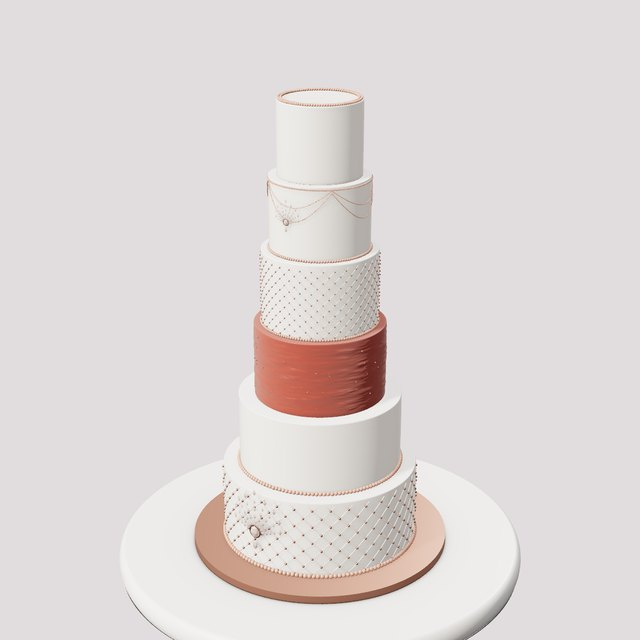
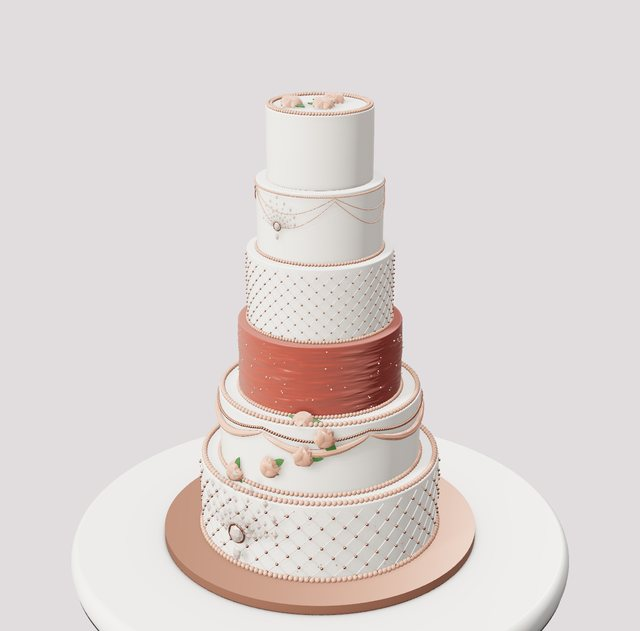
Signature cakes round 4: cow ears, richer rose gold
Claude-Session: https://claude.ai/code/session_016sN14hzH19WJ5zrp8o2QGp

diff --git a/studio.html b/studio.html
@@ -1394,7 +1394,7 @@ function dollarFaceParts(q,c,mode,dc){const g=dollarGeo();g.scale(1.6,1.6,.35);g
 function sugarBowParts(q,c){const g=bowGeo(q,.9);g.rotateX(-PI/2);return[[bowMat(c),g]]}
 function cowTopParts(q,c,mode,dc){const horns=[],ears=[],inner=[];const sp=(dc&&dc.spread)||1.15;
  for(const sd of[-1,1]){const pts=[];for(let i=0;i<=12;i++){const t=i/12;pts.push(new V3(sd*(sp-.1*t+.18*t*t),t*.95,-.05*t))}const tube=new T.TubeGeometry(new T.CatmullRomCurve3(pts),20,.16,14,false),pp=tube.attributes.position;for(let i=0;i<pp.count;i++){const y=pp.getY(i),k=Math.max(.15,1-y/1.05),cx=sd*(sp-.1*(y/.95)+.18*(y/.95)**2);pp.setX(i,cx+(pp.getX(i)-cx)*k);pp.setZ(i,pp.getZ(i)*k)}tube.computeVertexNormals();horns.push(tube);
-  const ear=new T.SphereGeometry(1,24,14);ear.scale(.62,.07,.34);ear.rotateZ(-sd*.5);ear.translate(sd*(sp+.55),-.12,.1);ears.push(ear);const inn=new T.SphereGeometry(1,20,12);inn.scale(.45,.06,.24);inn.rotateZ(-sd*.5);inn.translate(sd*(sp+.55),-.09,.16);inner.push(inn)}
+  const ear=new T.SphereGeometry(1,24,14);ear.scale(.6,.16,.38);ear.rotateZ(-sd*.28);ear.translate(sd*(sp+.62),.02,.12);ears.push(ear);const inn=new T.SphereGeometry(1,20,12);inn.scale(.44,.1,.27);inn.rotateZ(-sd*.28);inn.translate(sd*(sp+.62),.1,.14);inner.push(inn)}
  const bows=[];for(const sd of[-1,1]){const b=bowGeo(q,.8);b.translate(sd*sp,.25,.25);bows.push(b)}
  return[[dmat('#1d1b1f',{r:.35,cc:.5}),mg(horns)],[dmat('#fbf7f1',{r:.45,cc:.3}),mg(ears)],[dmat('#f3a6c0',{r:.45,cc:.3}),mg(inner)],[bowMat(c),mergeGeometries(bows)]]}
 function cowFaceParts(q,c,mode,dc){const black=[],white=[],pink=[],dark=[];
@@ -1577,13 +1577,13 @@ THEMES.unshift(
   newTier(8,4.8,{color:'#fbf8f2',finish:'fondant',texture:'ruffle',top:'pearls',pipe:'#fbf8f2',bottom:'pearls',bottomColor:'#fbf8f2'}),
   newTier(7,4.6,{color:'#fbf8f2',finish:'fondant',top:'pearls',pipe:'#fbf8f2',bottom:'pearls',bottomColor:'#fbf8f2',stencil:{pattern:'lace',color:'#cdb89a',size:2.2,height:3.2,y:.6}}),
   newTier(6,5,{color:'#fbf8f2',finish:'fondant',texture:'dimple',top:'pearls',pipe:'#fbf8f2',bottom:'pearls',bottomColor:'#fbf8f2',decor:[DC('roses','crown',6,{color:'#fbf8f2',size:120})]})]}},
- {key:'sig_rosegold',name:'Rose Gold Jewels',tag:SIG,blurb:'Six tiers of quilted ivory, jeweled chain swags, a rose gold glitter tier and a rhinestone brooch burst.',d:{board:'rosegold',topper:'none',tiers:[
-  newTier(12,5,{color:'#fbf8f2',finish:'fondant',side:'quilted',sideColor:'#fbf8f2',pearlColor:'#d9a08a',top:'none',bottom:'pearls',bottomColor:'#d9a08a',decor:[DC('brooch','band',1,{color:'#d9a08a',size:190,R:6,rot:95})]}),
-  newTier(10,4.6,{color:'#fbf8f2',finish:'fondant',top:'none',bottom:'pearls',bottomColor:'#d9a08a'}),
-  newTier(8,4.6,{color:'#98483d',finish:'fondant',texture:'stucco',top:'none',bottom:'none',decor:[DC('dragees','scatter',70,{color:'#d9a08a',size:45})]}),
-  newTier(7,4.6,{color:'#fbf8f2',finish:'fondant',side:'quilted',sideColor:'#fbf8f2',pearlColor:'#d9a08a',top:'none',bottom:'pearls',bottomColor:'#d9a08a'}),
-  newTier(6,4.4,{color:'#fbf8f2',finish:'fondant',side:'strings',pipe:'#d9a08a',top:'none',bottom:'pearls',bottomColor:'#d9a08a',decor:[DC('brooch','band',1,{color:'#d9a08a',size:90,R:3,rot:95})]}),
-  newTier(5,4.4,{color:'#fbf8f2',finish:'fondant',top:'dpearls',topColor:'#d9a08a',bottom:'none'})]}},
+ {key:'sig_rosegold',name:'Rose Gold Jewels',tag:SIG,blurb:'Six tiers of quilted ivory, jeweled chain swags, a rose gold glitter tier and rhinestone brooch bursts with rose gold roses.',d:{board:'rosegold',topper:'none',tiers:[
+  newTier(12,4,{color:'#fbf8f2',finish:'fondant',side:'quilted',sideColor:'#fbf8f2',pearlColor:'#d9a08a',top:'pearls',pipe:'#d9a08a',bottom:'pearls',bottomColor:'#d9a08a',decor:[DC('brooch','band',1,{color:'#d9a08a',size:230,R:6,rot:95}),DC('dragees','scatter',40,{color:'#d9a08a',size:45})]}),
+  newTier(10,3.6,{color:'#fbf8f2',finish:'fondant',side:'swags',sideColor:'#d9a08a',pearlColor:'#d9a08a',top:'pearls',pipe:'#d9a08a',bottom:'pearls',bottomColor:'#d9a08a',decor:[DC('roses','cascade',5,{color:'#d9a08a',size:130,rot:-30})]}),
+  newTier(8,3.6,{color:'#98483d',finish:'fondant',texture:'stucco',top:'dpearls',topColor:'#d9a08a',bottom:'pearls',bottomColor:'#d9a08a',decor:[DC('dragees','scatter',110,{color:'#e8b9a3',size:45})]}),
+  newTier(7,3.6,{color:'#fbf8f2',finish:'fondant',side:'quilted',sideColor:'#fbf8f2',pearlColor:'#d9a08a',top:'none',bottom:'pearls',bottomColor:'#d9a08a'}),
+  newTier(6,3.4,{color:'#fbf8f2',finish:'fondant',side:'strings',pipe:'#d9a08a',top:'pearls',pipe2:'#d9a08a',bottom:'pearls',bottomColor:'#d9a08a',decor:[DC('brooch','band',1,{color:'#d9a08a',size:100,R:3,rot:95})]}),
+  newTier(5,3.4,{color:'#fbf8f2',finish:'fondant',top:'dpearls',topColor:'#d9a08a',bottom:'none',decor:[DC('roses','cluster',3,{color:'#d9a08a',size:130})]})]}},
  {key:'sig_babysky',name:'Up, Up And Away Bears',tag:SIG,blurb:'Sky blue ombre tiers with fondant clouds, a ladder, a spiral of gold buttons, teddy bears, ABC blocks and a hot air balloon.',d:{board:'white',boardColor:'#e9eaec',topper:'none',tiers:[
   newTier(9,6.5,{color:'#6fb3e8',finish:'fondant',ombre:true,ombreColor:'#eef6fc',top:'none',bottom:'pearls',bottomColor:'#fbf7f1',decor:[DC('clouds','scatter',14,{color:'#fbf7f1',size:150}),DC('teddy','cluster',2,{color:'#f6efe6',size:340,where:'board',face:95}),DC('abcblocks','cluster',4,{size:230,where:'board',mix:['#2f6fd0','#2f6fd0','#7fb0e8']}),DC('ladder','band',1,{color:'#fbf7f1',rot:-40,size:190})]}),
   newTier(7.5,6.2,{color:'#6fb3e8',finish:'fondant',ombre:true,ombreColor:'#eef6fc',top:'none',bottom:'none',decor:[DC('clouds','scatter',12,{color:'#fbf7f1',size:150}),DC('buttons','cascade',46,{color:'#d4ae5a',rot:-25,size:150,wide:1.5})]}),

diff --git a/tools/signature-decor.js b/tools/signature-decor.js
@@ -62,7 +62,7 @@ function dollarFaceParts(q,c,mode,dc){const g=dollarGeo();g.scale(1.6,1.6,.35);g
 function sugarBowParts(q,c){const g=bowGeo(q,.9);g.rotateX(-PI/2);return[[bowMat(c),g]]}
 function cowTopParts(q,c,mode,dc){const horns=[],ears=[],inner=[];const sp=(dc&&dc.spread)||1.15;
  for(const sd of[-1,1]){const pts=[];for(let i=0;i<=12;i++){const t=i/12;pts.push(new V3(sd*(sp-.1*t+.18*t*t),t*.95,-.05*t))}const tube=new T.TubeGeometry(new T.CatmullRomCurve3(pts),20,.16,14,false),pp=tube.attributes.position;for(let i=0;i<pp.count;i++){const y=pp.getY(i),k=Math.max(.15,1-y/1.05),cx=sd*(sp-.1*(y/.95)+.18*(y/.95)**2);pp.setX(i,cx+(pp.getX(i)-cx)*k);pp.setZ(i,pp.getZ(i)*k)}tube.computeVertexNormals();horns.push(tube);
-  const ear=new T.SphereGeometry(1,24,14);ear.scale(.62,.07,.34);ear.rotateZ(-sd*.5);ear.translate(sd*(sp+.55),-.12,.1);ears.push(ear);const inn=new T.SphereGeometry(1,20,12);inn.scale(.45,.06,.24);inn.rotateZ(-sd*.5);inn.translate(sd*(sp+.55),-.09,.16);inner.push(inn)}
+  const ear=new T.SphereGeometry(1,24,14);ear.scale(.6,.16,.38);ear.rotateZ(-sd*.28);ear.translate(sd*(sp+.62),.02,.12);ears.push(ear);const inn=new T.SphereGeometry(1,20,12);inn.scale(.44,.1,.27);inn.rotateZ(-sd*.28);inn.translate(sd*(sp+.62),.1,.14);inner.push(inn)}
  const bows=[];for(const sd of[-1,1]){const b=bowGeo(q,.8);b.translate(sd*sp,.25,.25);bows.push(b)}
  return[[dmat('#1d1b1f',{r:.35,cc:.5}),mg(horns)],[dmat('#fbf7f1',{r:.45,cc:.3}),mg(ears)],[dmat('#f3a6c0',{r:.45,cc:.3}),mg(inner)],[bowMat(c),mergeGeometries(bows)]]}
 function cowFaceParts(q,c,mode,dc){const black=[],white=[],pink=[],dark=[];
@@ -245,13 +245,13 @@ THEMES.unshift(
   newTier(8,4.8,{color:'#fbf8f2',finish:'fondant',texture:'ruffle',top:'pearls',pipe:'#fbf8f2',bottom:'pearls',bottomColor:'#fbf8f2'}),
   newTier(7,4.6,{color:'#fbf8f2',finish:'fondant',top:'pearls',pipe:'#fbf8f2',bottom:'pearls',bottomColor:'#fbf8f2',stencil:{pattern:'lace',color:'#cdb89a',size:2.2,height:3.2,y:.6}}),
   newTier(6,5,{color:'#fbf8f2',finish:'fondant',texture:'dimple',top:'pearls',pipe:'#fbf8f2',bottom:'pearls',bottomColor:'#fbf8f2',decor:[DC('roses','crown',6,{color:'#fbf8f2',size:120})]})]}},
- {key:'sig_rosegold',name:'Rose Gold Jewels',tag:SIG,blurb:'Six tiers of quilted ivory, jeweled chain swags, a rose gold glitter tier and a rhinestone brooch burst.',d:{board:'rosegold',topper:'none',tiers:[
-  newTier(12,5,{color:'#fbf8f2',finish:'fondant',side:'quilted',sideColor:'#fbf8f2',pearlColor:'#d9a08a',top:'none',bottom:'pearls',bottomColor:'#d9a08a',decor:[DC('brooch','band',1,{color:'#d9a08a',size:190,R:6,rot:95})]}),
-  newTier(10,4.6,{color:'#fbf8f2',finish:'fondant',top:'none',bottom:'pearls',bottomColor:'#d9a08a'}),
-  newTier(8,4.6,{color:'#98483d',finish:'fondant',texture:'stucco',top:'none',bottom:'none',decor:[DC('dragees','scatter',70,{color:'#d9a08a',size:45})]}),
-  newTier(7,4.6,{color:'#fbf8f2',finish:'fondant',side:'quilted',sideColor:'#fbf8f2',pearlColor:'#d9a08a',top:'none',bottom:'pearls',bottomColor:'#d9a08a'}),
-  newTier(6,4.4,{color:'#fbf8f2',finish:'fondant',side:'strings',pipe:'#d9a08a',top:'none',bottom:'pearls',bottomColor:'#d9a08a',decor:[DC('brooch','band',1,{color:'#d9a08a',size:90,R:3,rot:95})]}),
-  newTier(5,4.4,{color:'#fbf8f2',finish:'fondant',top:'dpearls',topColor:'#d9a08a',bottom:'none'})]}},
+ {key:'sig_rosegold',name:'Rose Gold Jewels',tag:SIG,blurb:'Six tiers of quilted ivory, jeweled chain swags, a rose gold glitter tier and rhinestone brooch bursts with rose gold roses.',d:{board:'rosegold',topper:'none',tiers:[
+  newTier(12,4,{color:'#fbf8f2',finish:'fondant',side:'quilted',sideColor:'#fbf8f2',pearlColor:'#d9a08a',top:'pearls',pipe:'#d9a08a',bottom:'pearls',bottomColor:'#d9a08a',decor:[DC('brooch','band',1,{color:'#d9a08a',size:230,R:6,rot:95}),DC('dragees','scatter',40,{color:'#d9a08a',size:45})]}),
+  newTier(10,3.6,{color:'#fbf8f2',finish:'fondant',side:'swags',sideColor:'#d9a08a',pearlColor:'#d9a08a',top:'pearls',pipe:'#d9a08a',bottom:'pearls',bottomColor:'#d9a08a',decor:[DC('roses','cascade',5,{color:'#d9a08a',size:130,rot:-30})]}),
+  newTier(8,3.6,{color:'#98483d',finish:'fondant',texture:'stucco',top:'dpearls',topColor:'#d9a08a',bottom:'pearls',bottomColor:'#d9a08a',decor:[DC('dragees','scatter',110,{color:'#e8b9a3',size:45})]}),
+  newTier(7,3.6,{color:'#fbf8f2',finish:'fondant',side:'quilted',sideColor:'#fbf8f2',pearlColor:'#d9a08a',top:'none',bottom:'pearls',bottomColor:'#d9a08a'}),
+  newTier(6,3.4,{color:'#fbf8f2',finish:'fondant',side:'strings',pipe:'#d9a08a',top:'pearls',pipe2:'#d9a08a',bottom:'pearls',bottomColor:'#d9a08a',decor:[DC('brooch','band',1,{color:'#d9a08a',size:100,R:3,rot:95})]}),
+  newTier(5,3.4,{color:'#fbf8f2',finish:'fondant',top:'dpearls',topColor:'#d9a08a',bottom:'none',decor:[DC('roses','cluster',3,{color:'#d9a08a',size:130})]})]}},
  {key:'sig_babysky',name:'Up, Up And Away Bears',tag:SIG,blurb:'Sky blue ombre tiers with fondant clouds, a ladder, a spiral of gold buttons, teddy bears, ABC blocks and a hot air balloon.',d:{board:'white',boardColor:'#e9eaec',topper:'none',tiers:[
   newTier(9,6.5,{color:'#6fb3e8',finish:'fondant',ombre:true,ombreColor:'#eef6fc',top:'none',bottom:'pearls',bottomColor:'#fbf7f1',decor:[DC('clouds','scatter',14,{color:'#fbf7f1',size:150}),DC('teddy','cluster',2,{color:'#f6efe6',size:340,where:'board',face:95}),DC('abcblocks','cluster',4,{size:230,where:'board',mix:['#2f6fd0','#2f6fd0','#7fb0e8']}),DC('ladder','band',1,{color:'#fbf7f1',rot:-40,size:190})]}),
   newTier(7.5,6.2,{color:'#6fb3e8',finish:'fondant',ombre:true,ombreColor:'#eef6fc',top:'none',bottom:'none',decor:[DC('clouds','scatter',12,{color:'#fbf7f1',size:150}),DC('buttons','cascade',46,{color:'#d4ae5a',rot:-25,size:150,wide:1.5})]}),

diff --git a/tools/sig-themes.js b/tools/sig-themes.js
@@ -32,13 +32,13 @@ THEMES.unshift(
   newTier(8,4.8,{color:'#fbf8f2',finish:'fondant',texture:'ruffle',top:'pearls',pipe:'#fbf8f2',bottom:'pearls',bottomColor:'#fbf8f2'}),
   newTier(7,4.6,{color:'#fbf8f2',finish:'fondant',top:'pearls',pipe:'#fbf8f2',bottom:'pearls',bottomColor:'#fbf8f2',stencil:{pattern:'lace',color:'#cdb89a',size:2.2,height:3.2,y:.6}}),
   newTier(6,5,{color:'#fbf8f2',finish:'fondant',texture:'dimple',top:'pearls',pipe:'#fbf8f2',bottom:'pearls',bottomColor:'#fbf8f2',decor:[DC('roses','crown',6,{color:'#fbf8f2',size:120})]})]}},
- {key:'sig_rosegold',name:'Rose Gold Jewels',tag:SIG,blurb:'Six tiers of quilted ivory, jeweled chain swags, a rose gold glitter tier and a rhinestone brooch burst.',d:{board:'rosegold',topper:'none',tiers:[
-  newTier(12,5,{color:'#fbf8f2',finish:'fondant',side:'quilted',sideColor:'#fbf8f2',pearlColor:'#d9a08a',top:'none',bottom:'pearls',bottomColor:'#d9a08a',decor:[DC('brooch','band',1,{color:'#d9a08a',size:190,R:6,rot:95})]}),
-  newTier(10,4.6,{color:'#fbf8f2',finish:'fondant',top:'none',bottom:'pearls',bottomColor:'#d9a08a'}),
-  newTier(8,4.6,{color:'#98483d',finish:'fondant',texture:'stucco',top:'none',bottom:'none',decor:[DC('dragees','scatter',70,{color:'#d9a08a',size:45})]}),
-  newTier(7,4.6,{color:'#fbf8f2',finish:'fondant',side:'quilted',sideColor:'#fbf8f2',pearlColor:'#d9a08a',top:'none',bottom:'pearls',bottomColor:'#d9a08a'}),
-  newTier(6,4.4,{color:'#fbf8f2',finish:'fondant',side:'strings',pipe:'#d9a08a',top:'none',bottom:'pearls',bottomColor:'#d9a08a',decor:[DC('brooch','band',1,{color:'#d9a08a',size:90,R:3,rot:95})]}),
-  newTier(5,4.4,{color:'#fbf8f2',finish:'fondant',top:'dpearls',topColor:'#d9a08a',bottom:'none'})]}},
+ {key:'sig_rosegold',name:'Rose Gold Jewels',tag:SIG,blurb:'Six tiers of quilted ivory, jeweled chain swags, a rose gold glitter tier and rhinestone brooch bursts with rose gold roses.',d:{board:'rosegold',topper:'none',tiers:[
+  newTier(12,4,{color:'#fbf8f2',finish:'fondant',side:'quilted',sideColor:'#fbf8f2',pearlColor:'#d9a08a',top:'pearls',pipe:'#d9a08a',bottom:'pearls',bottomColor:'#d9a08a',decor:[DC('brooch','band',1,{color:'#d9a08a',size:230,R:6,rot:95}),DC('dragees','scatter',40,{color:'#d9a08a',size:45})]}),
+  newTier(10,3.6,{color:'#fbf8f2',finish:'fondant',side:'swags',sideColor:'#d9a08a',pearlColor:'#d9a08a',top:'pearls',pipe:'#d9a08a',bottom:'pearls',bottomColor:'#d9a08a',decor:[DC('roses','cascade',5,{color:'#d9a08a',size:130,rot:-30})]}),
+  newTier(8,3.6,{color:'#98483d',finish:'fondant',texture:'stucco',top:'dpearls',topColor:'#d9a08a',bottom:'pearls',bottomColor:'#d9a08a',decor:[DC('dragees','scatter',110,{color:'#e8b9a3',size:45})]}),
+  newTier(7,3.6,{color:'#fbf8f2',finish:'fondant',side:'quilted',sideColor:'#fbf8f2',pearlColor:'#d9a08a',top:'none',bottom:'pearls',bottomColor:'#d9a08a'}),
+  newTier(6,3.4,{color:'#fbf8f2',finish:'fondant',side:'strings',pipe:'#d9a08a',top:'pearls',pipe2:'#d9a08a',bottom:'pearls',bottomColor:'#d9a08a',decor:[DC('brooch','band',1,{color:'#d9a08a',size:100,R:3,rot:95})]}),
+  newTier(5,3.4,{color:'#fbf8f2',finish:'fondant',top:'dpearls',topColor:'#d9a08a',bottom:'none',decor:[DC('roses','cluster',3,{color:'#d9a08a',size:130})]})]}},
  {key:'sig_babysky',name:'Up, Up And Away Bears',tag:SIG,blurb:'Sky blue ombre tiers with fondant clouds, a ladder, a spiral of gold buttons, teddy bears, ABC blocks and a hot air balloon.',d:{board:'white',boardColor:'#e9eaec',topper:'none',tiers:[
   newTier(9,6.5,{color:'#6fb3e8',finish:'fondant',ombre:true,ombreColor:'#eef6fc',top:'none',bottom:'pearls',bottomColor:'#fbf7f1',decor:[DC('clouds','scatter',14,{color:'#fbf7f1',size:150}),DC('teddy','cluster',2,{color:'#f6efe6',size:340,where:'board',face:95}),DC('abcblocks','cluster',4,{size:230,where:'board',mix:['#2f6fd0','#2f6fd0','#7fb0e8']}),DC('ladder','band',1,{color:'#fbf7f1',rot:-40,size:190})]}),
   newTier(7.5,6.2,{color:'#6fb3e8',finish:'fondant',ombre:true,ombreColor:'#eef6fc',top:'none',bottom:'none',decor:[DC('clouds','scatter',12,{color:'#fbf7f1',size:150}),DC('buttons','cascade',46,{color:'#d4ae5a',rot:-25,size:150,wide:1.5})]}),

diff --git a/tools/sig-pieces.js b/tools/sig-pieces.js
@@ -62,7 +62,7 @@ function dollarFaceParts(q,c,mode,dc){const g=dollarGeo();g.scale(1.6,1.6,.35);g
 function sugarBowParts(q,c){const g=bowGeo(q,.9);g.rotateX(-PI/2);return[[bowMat(c),g]]}
 function cowTopParts(q,c,mode,dc){const horns=[],ears=[],inner=[];const sp=(dc&&dc.spread)||1.15;
  for(const sd of[-1,1]){const pts=[];for(let i=0;i<=12;i++){const t=i/12;pts.push(new V3(sd*(sp-.1*t+.18*t*t),t*.95,-.05*t))}const tube=new T.TubeGeometry(new T.CatmullRomCurve3(pts),20,.16,14,false),pp=tube.attributes.position;for(let i=0;i<pp.count;i++){const y=pp.getY(i),k=Math.max(.15,1-y/1.05),cx=sd*(sp-.1*(y/.95)+.18*(y/.95)**2);pp.setX(i,cx+(pp.getX(i)-cx)*k);pp.setZ(i,pp.getZ(i)*k)}tube.computeVertexNormals();horns.push(tube);
-  const ear=new T.SphereGeometry(1,24,14);ear.scale(.62,.07,.34);ear.rotateZ(-sd*.5);ear.translate(sd*(sp+.55),-.12,.1);ears.push(ear);const inn=new T.SphereGeometry(1,20,12);inn.scale(.45,.06,.24);inn.rotateZ(-sd*.5);inn.translate(sd*(sp+.55),-.09,.16);inner.push(inn)}
+  const ear=new T.SphereGeometry(1,24,14);ear.scale(.6,.16,.38);ear.rotateZ(-sd*.28);ear.translate(sd*(sp+.62),.02,.12);ears.push(ear);const inn=new T.SphereGeometry(1,20,12);inn.scale(.44,.1,.27);inn.rotateZ(-sd*.28);inn.translate(sd*(sp+.62),.1,.14);inner.push(inn)}
  const bows=[];for(const sd of[-1,1]){const b=bowGeo(q,.8);b.translate(sd*sp,.25,.25);bows.push(b)}
  return[[dmat('#1d1b1f',{r:.35,cc:.5}),mg(horns)],[dmat('#fbf7f1',{r:.45,cc:.3}),mg(ears)],[dmat('#f3a6c0',{r:.45,cc:.3}),mg(inner)],[bowMat(c),mergeGeometries(bows)]]}
 function cowFaceParts(q,c,mode,dc){const black=[],white=[],pink=[],dark=[];
